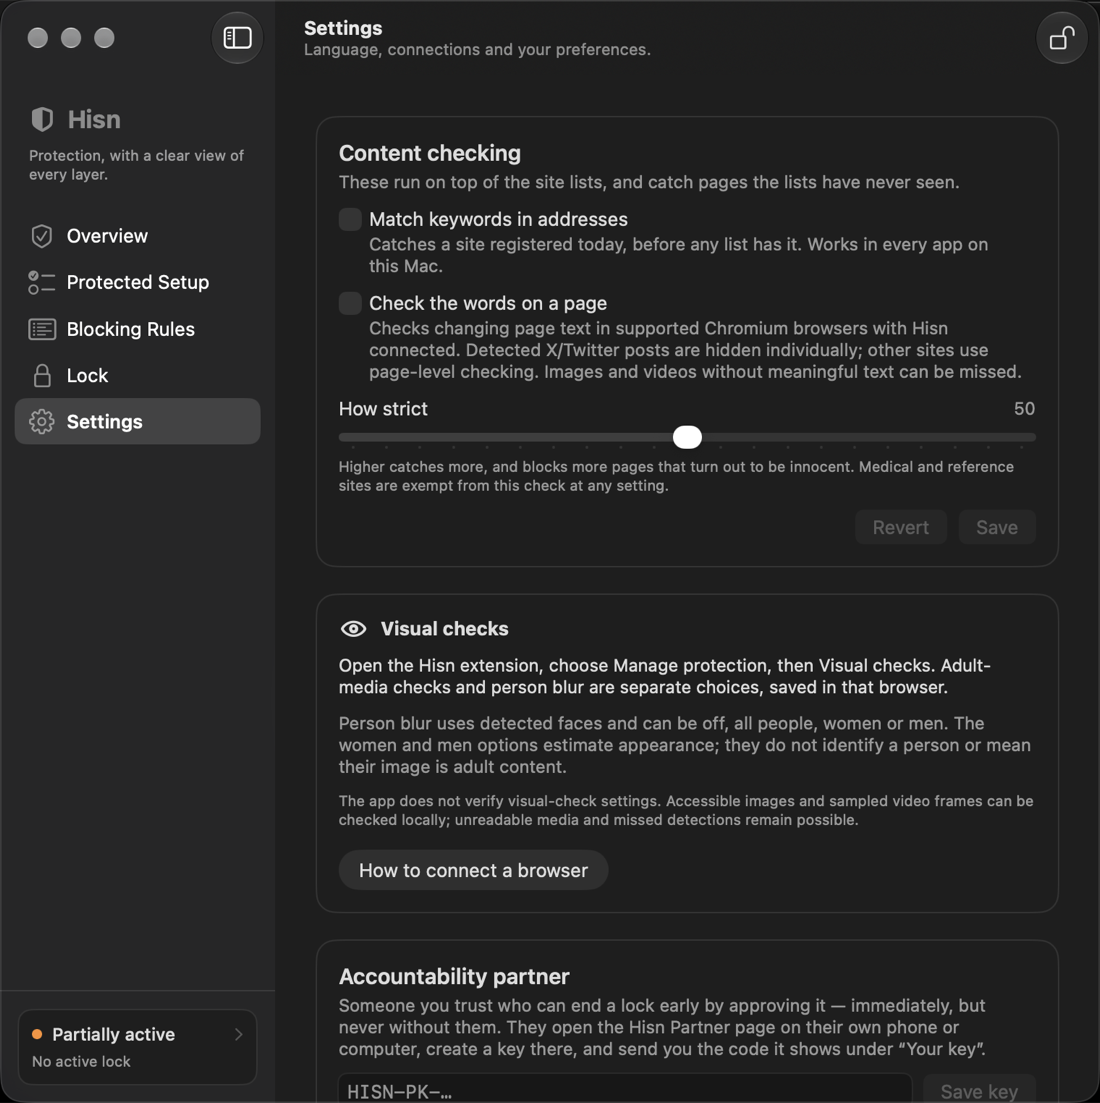
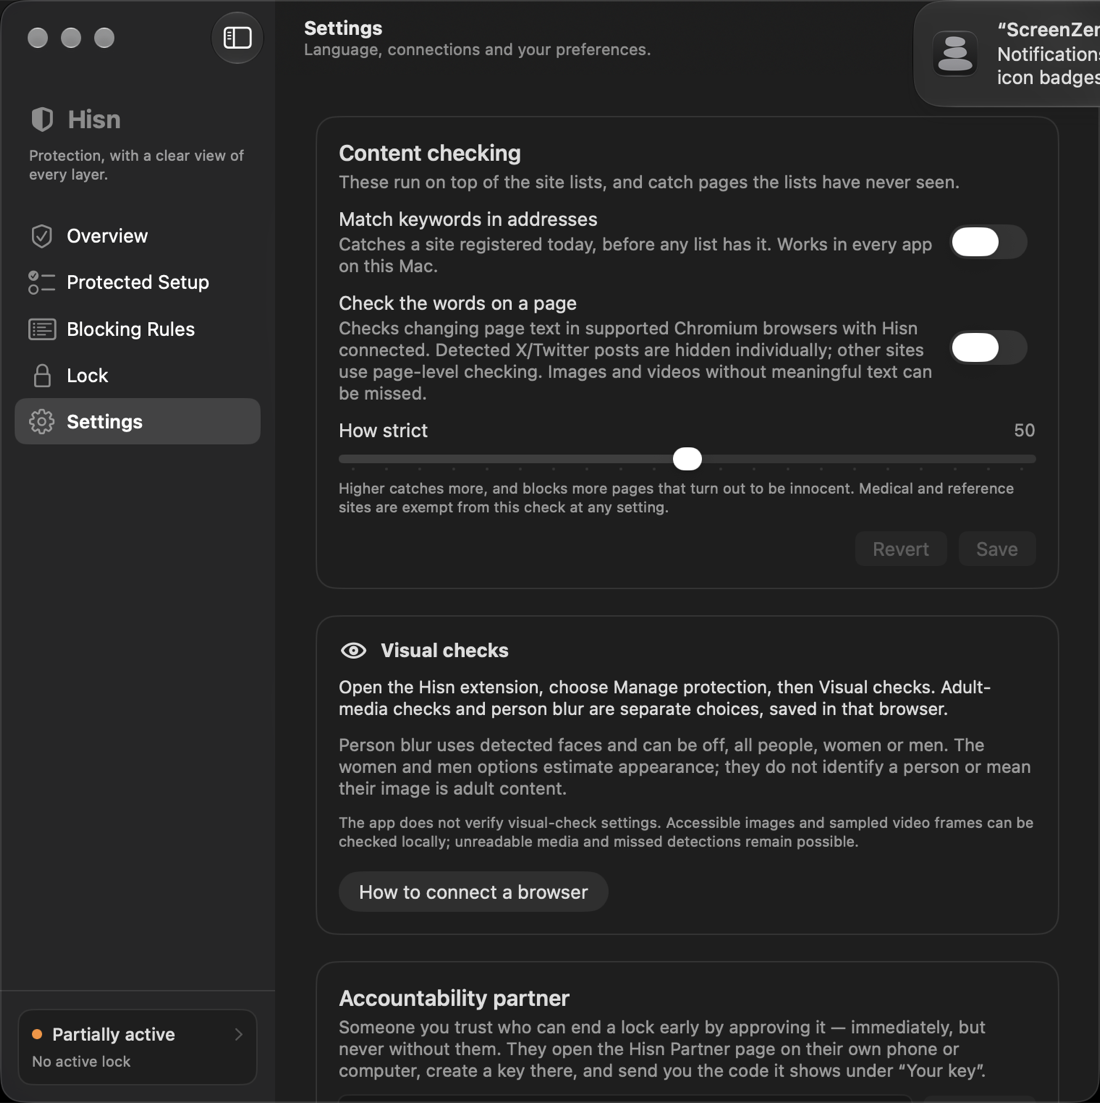
Mac 1.1.10: trailing switches and the Screen Zen feature audit
- The three Settings check toggles become trailing switches, matching the
  switches already used on Rules and the convention Screen Zen's rows follow.
- docs/SCREEN_ZEN_FEATURE_AUDIT_2026-11-03.md records the read-only walkthrough
  of Screen Zen 2.0.0 (Websites, detail, Halo, Daily goal onboarding, More menu,
  Settings with its 45-second cool-down), what Hisn took, what it could take
  next (pinned Lock action with a consequence line; a 'would this be blocked?'
  check), what it rejects and why, and the automated-test gaps behind 'the UI
  pass was judged from screenshots'.

Build 19; 526 tests and localization pass.

diff --git a/macos/Hisn/ContentView.swift b/macos/Hisn/ContentView.swift
@@ -2598,6 +2598,7 @@ private struct SettingsPage: View {
                             .fixedSize(horizontal: false, vertical: true)
                     }
                 }
+                .toggleStyle(.switch)
 
                 Toggle(isOn: $settings.text) {
                     VStack(alignment: .leading, spacing: 2) {
@@ -2607,6 +2608,7 @@ private struct SettingsPage: View {
                             .fixedSize(horizontal: false, vertical: true)
                     }
                 }
+                .toggleStyle(.switch)
 
                 VStack(alignment: .leading, spacing: 4) {
                     HStack {
@@ -2690,6 +2692,7 @@ private struct GrayscaleSection: View {
             Toggle(isOn: Binding(get: { grayscale.isOn }, set: { grayscale.set($0) })) {
                 Text("Make the screen gray")
             }
+            .toggleStyle(.switch)
             .disabled(!ScreenGrayscale.isAvailable || (grayscale.isOn && isLocked))
 
             if !ScreenGrayscale.isAvailable {

diff --git a/macos/generate_xcodeproj.py b/macos/generate_xcodeproj.py
@@ -384,7 +384,7 @@ def main() -> int:
     app_settings = {
         "ASSETCATALOG_COMPILER_APPICON_NAME": "AppIcon",
         "CODE_SIGN_ENTITLEMENTS": "Hisn/Hisn.entitlements",
-        "CURRENT_PROJECT_VERSION": "18",
+        "CURRENT_PROJECT_VERSION": "19",
         "MARKETING_VERSION": "1.1.10",
         "ENABLE_HARDENED_RUNTIME": "YES",
         "INFOPLIST_FILE": "Hisn/Info.plist",
@@ -396,7 +396,7 @@ def main() -> int:
     }
     filter_settings = {
         "CODE_SIGN_ENTITLEMENTS": "HisnFilter/HisnFilter.entitlements",
-        "CURRENT_PROJECT_VERSION": "18",
+        "CURRENT_PROJECT_VERSION": "19",
         "MARKETING_VERSION": "1.1.10",
         "ENABLE_HARDENED_RUNTIME": "YES",
         "INFOPLIST_FILE": "HisnFilter/Info.plist",
@@ -407,7 +407,7 @@ def main() -> int:
     }
     bridge_settings = {
         "CODE_SIGN_ENTITLEMENTS": "HisnBridge/HisnBridge.entitlements",
-        "CURRENT_PROJECT_VERSION": "18",
+        "CURRENT_PROJECT_VERSION": "19",
         "MARKETING_VERSION": "1.1.10",
         "ENABLE_HARDENED_RUNTIME": "YES",
         "GENERATE_INFOPLIST_FILE": "YES",

diff --git a/docs/SCREEN_ZEN_FEATURE_AUDIT_2026-11-03.md b/docs/SCREEN_ZEN_FEATURE_AUDIT_2026-11-03.md
@@ -1,0 +1,90 @@
+# Screen Zen feature audit: what Hisn can take — 3 November 2026
+
+A walkthrough of the other Mac app on this machine, recorded as design input for
+Hisn 1.1.10. It is **not** a security assessment, a benchmark, or a claim about
+how Screen Zen behaves under enforcement.
+
+## Method
+
+- Screen Zen 2.0.0 (build 63) was opened read-only and every destination was
+  visited: **Websites**, a websites detail, **Halo**, **Daily goal** (the two
+  onboarding steps it was in), the **More** menu, and the **Settings** window
+  (General, Browsers, Advanced, About) including its "Settings locked — wait out
+  45 s" gate.
+- No Screen Zen setting, rule, account or stored data was changed. The
+  screenshots stay in temporary storage and are not redistributed; only the
+  observations below are recorded.
+- The Hisn side is 1.1.10 (build 19) at the time of this note, 526 tests.
+
+## What Screen Zen exposes
+
+| Surface | What it shows | Pattern worth noting |
+| --- | --- | --- |
+| Sidebar | Websites, Halo, Daily goal; a **Rules** group with a chip and "0 left" | Grouping by job, not by settings category |
+| Websites | Two tiles (**Disable blocking · 2 mins**, **Lock settings · On/Timer**), a dismissible rules banner with domain chips and one summary sentence | State first, one line of consequence, details behind a drill-in |
+| Websites detail | Segmented Block/Allow, add field, rows with per-row state and delete, action chips (Advanced rule, Adult websites, Test), then Apps / Daily limit / Zen screen / Limit rows | Rows are objects; each has one action and one chevron |
+| Halo | Empty state: headline, two-line explanation, one primary "See how halo works", one secondary "Pair halo" | Empty states carry the next action, not a manual |
+| Daily goal | Progress bar, a large −/4h/+ stepper, a live line ("Nothing gets blocked"), bottom-pinned **Continue**; step 2 is an app grid with icons, a dashed **+ Add app** tile and website chips | One decision per screen; the consequence is stated before the commitment |
+| More menu | Test a website, Report a bug, Share feedback, Check browser permissions | Utility actions kept out of the main flow |
+| Settings | Its own window with General/Browsers/Advanced/About; a modal **Settings locked — Wait out 45 s** before any change | A cool-down between the impulse and the change |
+
+## Take, adapt, reject
+
+### Taken in 1.1.10
+
+| Idea | How it landed |
+| --- | --- |
+| Rows as objects, one action each | Site lists are per-domain rows with Remove, an inline add field and a count |
+| A chip strip summarising the rules | The blocked-sites strip above the lists, read from the same edited text |
+| State on the right, label on the left | The three Settings toggles are trailing switches, matching the switches already used on Rules |
+| Grouped cards instead of one long form | Settings is one card per group |
+
+### Candidate next
+
+| Idea | Why it fits | Cost |
+| --- | --- | --- |
+| **Bottom-pinned primary action with a consequence line** on the Lock page | The Lock page's button sits after a long column; Screen Zen pins it and states what the choice does before you commit. Hisn could say "This would enforce 2 of 3 layers" / "Nothing is enforcing this yet" under the button | Small: move the button into a safe-area inset and derive one line from `ProtectionStatus` |
+| **"Would this be blocked?"** check | Screen Zen's *Test a website*; Hisn has no in-app way to ask. On the Mac it can run the same `SiteLists` + blocklist lookups the app already has and answer, with the reason (listed, custom block, allowed, strict mode) | Medium: a small sheet, no new data |
+| **Empty states with the next action** | Hisn's Setup with 0 steps done is a long card of prose; a first-run state could be headline + one primary + one secondary | Small, but needs design copy in English and Arabic |
+| **Cool-down before loosening settings** | Matches Hisn's "weakening waits" doctrine. It would apply only to a change that loosens, while unlocked — a lock already refuses those outright | Medium: needs a product decision and a timer the person can see |
+
+### Rejected
+
+| Idea | Reason |
+| --- | --- |
+| **Disable blocking · 2 mins** | A one-click pause contradicts the commitment model and the Lock page's promise. Hisn's pause changes no rule; the block stays |
+| **Halo proximity** | Needs Bluetooth pairing, an account and cloud state; conflicts with on-device-only |
+| **Daily screen-time goal and "0 left" counters** | Streaks and scores are deliberately not Hisn concepts; Android's per-app limits are a different feature |
+| **Account, sync, paywall** | No account by design |
+
+## Test coverage today, and the honest gaps
+
+`./test.sh macos` runs 526 tests across 20 files; the heaviest are
+`BrowserGuardTests` (79), `BlocklistStoreTests` (65), `PolicyAuthorityTests`
+(44), `SetupChecklistTests` (41) and `ProtectionStatusTests` (31). Guarded
+behaviour, lock policy, lists, setup state, DNS probes, the pause tally and both
+languages are covered.
+
+What has **no** automated test:
+
+- **Layout and RTL.** No snapshot or accessibility-tree assertion. Every UI pass
+  so far was judged from screenshots — including this one.
+- **Light mode and wide windows.** Captures are dark, 760 pt.
+- **VoiceOver order** after the header removal and the new rows.
+- **The chip strip and row UI as views.** Their add/remove logic is tested
+  (`EditorSummaryTests`); the rendering is not.
+- **End-to-end enforcement**: no test drives a real browser, the filter, or the
+  extension together on a signed build.
+- **Performance** of the filter and the page checks.
+
+The cheapest way to close the first four is a small UI-test target that opens
+each page at two widths, in both appearances, in English and Arabic, and asserts
+the accessibility tree — not pixels. That would make future UI passes verifiable
+rather than photographed.
+
+## Recommended order
+
+1. Lock page: bottom action bar and a live consequence line.
+2. "Would this be blocked?" check.
+3. UI-test target for the five pages (two widths, two appearances, two languages).
+4. Settings cool-down, if the product decision is yes.

diff --git a/docs/MACOS_1.1.10.md b/docs/MACOS_1.1.10.md
@@ -52,7 +52,7 @@ layout evidence, not the accessibility tree.
 | Lock | fixed-commitment paragraph twice, once stale | stated once, follows the mode toggle; duplicate card removed |
 | Blocking Rules | guide, then lists | lists, then guide |
 | Your sites | two large text boxes, domains only visible as text | per-domain rows with Remove, an inline add field, a chip strip of what is blocked, and bulk paste in a disclosure |
-| Settings | a flat column of headings and dividers | one card per group: content checking, browser guidance, partner, gray screen, language, details |
+| Settings | a flat column of headings and dividers, checkbox toggles | one card per group, with trailing switches |
 
 No rule, lock, filter, browser-bridge or protection-layer behaviour changed. Two
 user-facing strings were added (`Add`, `Paste a list`), both with Arabic; the
@@ -66,7 +66,7 @@ not enter the catalog as translatable copy.
 | File | Change |
 | --- | --- |
 | `macos/Hisn/ContentView.swift` | page chrome, Overview order, Setup card, Lock mode text, Rules order, row-based site lists |
-| `macos/Hisn.xcodeproj/project.pbxproj`, `macos/generate_xcodeproj.py` | 1.1.10, build 18 |
+| `macos/Hisn.xcodeproj/project.pbxproj`, `macos/generate_xcodeproj.py` | 1.1.10, build 19 |
 | `macos/Hisn/Localizable.xcstrings` | two new strings with Arabic; five marked stale |
 | `design/macos-ui-1.1.10/` | before/after captures and their README |
 

diff --git a/docs/README.md b/docs/README.md
@@ -113,6 +113,7 @@ Per-version change and verification notes, newest first.
 
 ### Mac
 
+- [Screen Zen feature audit](SCREEN_ZEN_FEATURE_AUDIT_2026-11-03.md): A read-only walkthrough of every Screen Zen 2.0.0 surface, what Hisn took in 1.1.10, what it could take next, what it rejects and why, and where the automated-test gaps are.
 - [Mac 1.1.10 release notes](MACOS_1.1.10.md): A UI/UX pass — one title per page, the Overview action above the evidence, one Setup card with progress and next step, the lock mode stated once, lists before prose on Blocking Rules, per-domain rows for the site lists and grouped settings cards. REA design research on Screen Zen 2.0.0; 526 tests. Unsigned/unnotarized.
 - [Mac 1.1.9 release notes](MACOS_1.1.9.md): The browser-guard warning becomes a calm dark intervention card with a shield, a large countdown and one Open-browser action, with no bypass; Overview moves layer evidence behind compact chips and a disclosure. Presentation only; 522 tests. Unsigned/unnotarized.
 - [Mac 1.1.8 release notes](MACOS_1.1.8.md): An on-demand pause window — a 30-second guided breath, rotating reminders, four needs and a local day/count tally — reachable from Overview, the menu bar and ⇧⌘P. It changes no rule or layer. Unsigned/unnotarized; no physical-Mac result claimed.

diff --git a/CHANGELOG.md b/CHANGELOG.md
@@ -33,7 +33,8 @@ bump without an entry here is an unfinished release.
   edited text the rows do, so the two cannot disagree.
 - **Settings is grouped cards.** Content checking, browser guidance, partner,
   gray screen, language and details each become one card instead of a flat
-  column of headings and dividers.
+  column of headings and dividers, and the three check toggles are trailing
+  switches rather than leading checkboxes.
 - **Site lists are rows, not a text box.** Each always-blocked and always-allowed
   list shows one domain per row with a Remove control, an inline add field and a
   live count; bulk paste stays one disclosure down, with the one-domain-per-line
@@ -46,7 +47,7 @@ bump without an entry here is an unfinished release.
 - Design research: REA 6.4.0 `inspect-artifact` and
   `capture-native-ui-scenario` on the Screen Zen 2.0.0 (build 63) window,
   observation only. Captures in `design/macos-ui-1.1.10/`.
-- Version 1.1.10, build 18. Unsigned and unnotarized; no physical-Mac,
+- Version 1.1.10, build 19. Unsigned and unnotarized; no physical-Mac,
   VoiceOver or signed-build result is claimed.
 
 ## Android 1.1.0 — 2026-11-03

diff --git a/docs/1.0_READINESS.md b/docs/1.0_READINESS.md
@@ -9,7 +9,7 @@ device proof**; the second list is not something a repository can complete.
 | Surface | Version | Build | Distribution state |
 | --- | --- | --- | --- |
 | Browser extension | 1.5.0 | — | Unpacked; store-ready zip, no listing |
-| Mac | 1.1.10 | 18 | Unsigned/unnotarized; installed in place on the owner's Mac, filter ad-hoc |
+| Mac | 1.1.10 | 19 | Unsigned/unnotarized; installed in place on the owner's Mac, filter ad-hoc |
 | iPhone & iPad | 1.4.0 | 8 | Simulator-tested; no team, entitlement or device |
 | Android | 1.1.0 | 27 | Signed direct APK published on GitHub and updated in place on the owner's phone; Play AAB built, not uploaded; no physical device-owner run |
 | Seed / lists | Seed v5 (2026-10-30); lists v6 (2026-11-03) | — | Signed seed; signed v6 list generation published and HTTP 200 |

diff --git a/docs/VERSIONS.md b/docs/VERSIONS.md
@@ -11,7 +11,7 @@ signed artifact has shipped. The state column is the honest release state.
 | Platform | Version | Build | State | Source of truth |
 | --- | --- | --- | --- | --- |
 | Browser extension (Chromium) | 1.5.0 | — | development · unpacked, no store listing | `extension/manifest.json` |
-| Mac | 1.1.10 | 18 | development · unsigned, needs Developer ID and notarization | `macos/Hisn.xcodeproj/project.pbxproj` |
+| Mac | 1.1.10 | 19 | development · unsigned, needs Developer ID and notarization | `macos/Hisn.xcodeproj/project.pbxproj` |
 | iPhone & iPad | 1.4.0 | 8 | development · no Apple team, Family Controls entitlement or test device | `ios/HisnMobile.xcodeproj/project.pbxproj` |
 | Android | 1.1.0 | 27 | released · signed direct APK on GitHub; Play AAB not uploaded | `android/app/build.gradle` |
 

diff --git a/design/macos-ui-1.1.10/README.md b/design/macos-ui-1.1.10/README.md
@@ -13,7 +13,7 @@ user study, a screen-reader audit or a layout snapshot test.
 | `before-rules.png` | 1.1.9: a three-paragraph browser guide before any editable list |
 | `after-rules.png` | 1.1.10: the site lists first, each list as per-domain rows with Remove, an inline add field and a chip strip |
 | `before-settings.png` | 1.1.9: a flat column of headings and dividers |
-| `after-settings.png` | 1.1.10: one card per settings group |
+| `after-settings.png` | 1.1.10: one card per settings group, switches on the right |
 | `before-lock.png` | 1.1.9: the fixed-commitment paragraph stated twice |
 | `after-lock.png` | 1.1.10: stated once, following the mode toggle |
 
